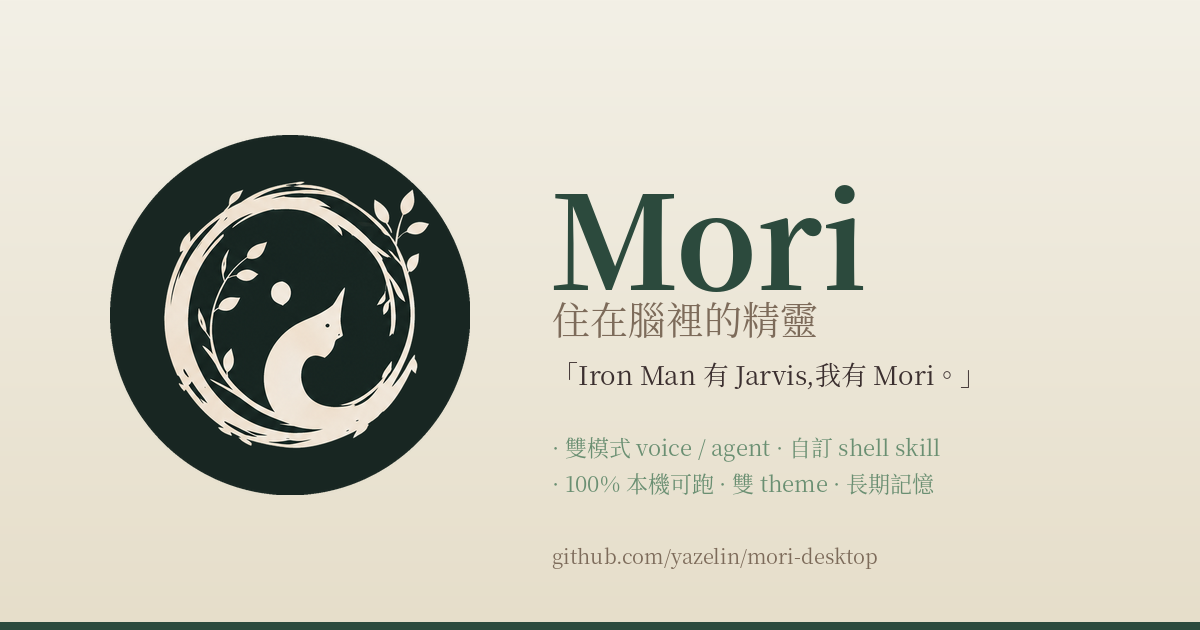
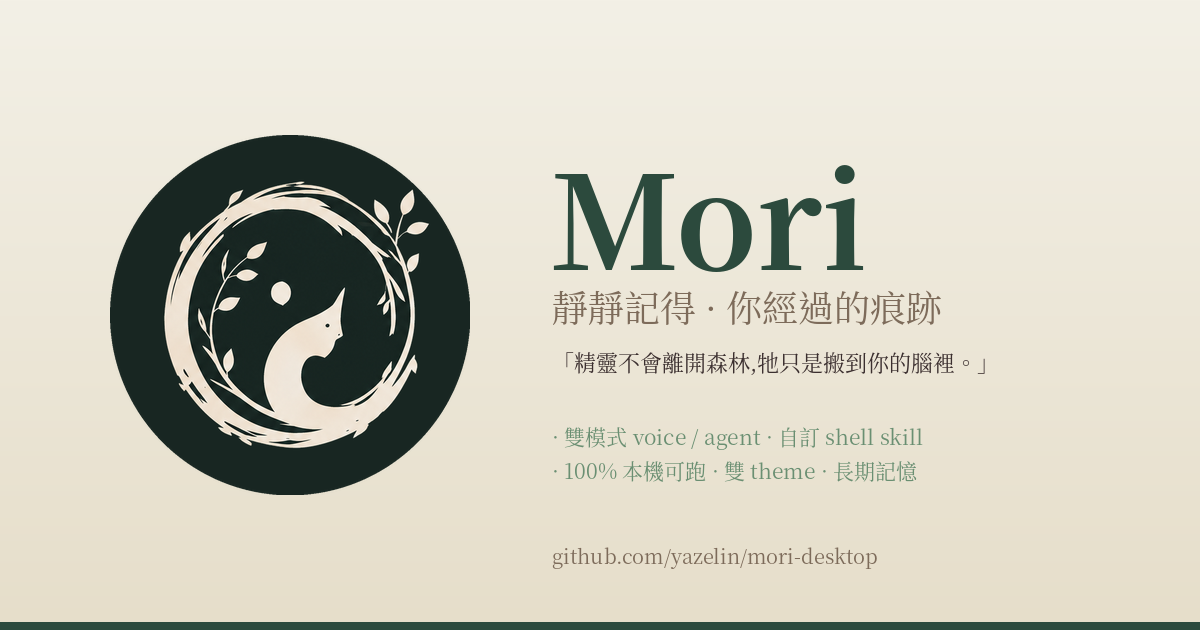
docs: tagline 改「靜靜記得 · 你經過的痕跡」
原「住在腦裡的精靈 · 桌面身體版」太工程化、不抓眼。新 tagline 直接拿 SOUL.md
原始引言後半,詩意更強且跟 Mori brand 核心(她的森林 / 你經過的痕跡)直接掛勾。

替換範圍:
- 所有 docs/*.html OG meta + twitter:title
- docs/index.html landing hero subtitle
- docs/design-book.html cover subtitle
- docs/brand.html 內文「Mori 是住在腦裡的精靈」→「Mori 是靜靜記得你經過痕跡的精靈」
- docs/og-image.png 重 render(新 tagline + SOUL.md 引言 hook)

Changed region(s): [[0.4625, 0.2413, 0.8017, 0.6333], [0.4625, 0.6635, 0.8017, 0.7841]]

diff --git a/docs/index.html b/docs/index.html
@@ -2,18 +2,18 @@
 <html lang="zh-Hant">
 <head>
 <meta charset="utf-8">
-<title>Mori — 住在腦裡的精靈</title>
+<title>Mori — 靜靜記得你經過的痕跡</title>
 <meta name="viewport" content="width=device-width,initial-scale=1">
 <link rel="icon" type="image/png" href="sprites/logo.png">
 <link rel="stylesheet" href="_book.css">
-<meta property="og:title" content="Mori — 住在腦裡的精靈">
+<meta property="og:title" content="Mori — 靜靜記得你經過的痕跡">
 <meta property="og:description" content="雙模式 voice / agent · 自訂 shell skill · 100% 本機可跑 · 雙 theme · 長期記憶。Tauri 2 + Rust + React 桌面 AI 助手。">
 <meta property="og:image" content="https://yazelin.github.io/mori-desktop/og-image.png">
 <meta property="og:url" content="https://yazelin.github.io/mori-desktop/">
 <meta property="og:type" content="website">
 <meta property="og:site_name" content="Mori">
 <meta name="twitter:card" content="summary_large_image">
-<meta name="twitter:title" content="Mori — 住在腦裡的精靈">
+<meta name="twitter:title" content="Mori — 靜靜記得你經過的痕跡">
 <meta name="twitter:description" content="雙模式 voice / agent · 自訂 shell skill · 100% 本機可跑 · 雙 theme">
 <meta name="twitter:image" content="https://yazelin.github.io/mori-desktop/og-image.png">
 <style>
@@ -324,7 +324,7 @@
   <img class="book-logo" src="sprites/logo.png" alt="Mori logo">
   <div>
     <h1>Mori</h1>
-    <div class="book-title-sub">住在腦裡的精靈 · 桌面身體版</div>
+    <div class="book-title-sub">靜靜記得 · 你經過的痕跡</div>
   </div>
   <nav class="book-nav">
     <a href="index.html" class="current">Home</a>

diff --git a/docs/design-book.html b/docs/design-book.html
@@ -6,14 +6,14 @@
 <meta name="viewport" content="width=device-width,initial-scale=1">
 <link rel="icon" type="image/png" href="sprites/logo.png">
 <link rel="stylesheet" href="_book.css">
-<meta property="og:title" content="Mori — 住在腦裡的精靈">
+<meta property="og:title" content="Mori — 靜靜記得你經過的痕跡">
 <meta property="og:description" content="雙模式 voice / agent · 自訂 shell skill · 100% 本機可跑 · 雙 theme · 長期記憶。Tauri 2 + Rust + React 桌面 AI 助手。">
 <meta property="og:image" content="https://yazelin.github.io/mori-desktop/og-image.png">
 <meta property="og:url" content="https://yazelin.github.io/mori-desktop/">
 <meta property="og:type" content="website">
 <meta property="og:site_name" content="Mori">
 <meta name="twitter:card" content="summary_large_image">
-<meta name="twitter:title" content="Mori — 住在腦裡的精靈">
+<meta name="twitter:title" content="Mori — 靜靜記得你經過的痕跡">
 <meta name="twitter:description" content="雙模式 voice / agent · 自訂 shell skill · 100% 本機可跑 · 雙 theme">
 <meta name="twitter:image" content="https://yazelin.github.io/mori-desktop/og-image.png">
 <style>
@@ -124,7 +124,7 @@
 <section class="cover">
   <img src="sprites/logo.png" alt="Mori logo">
   <h1>Mori</h1>
-  <div class="sub">精靈的私密記憶 · 桌面身體版</div>
+  <div class="sub">靜靜記得 · 你經過的痕跡</div>
   <blockquote>
     「精靈不會離開森林,牠只是搬到你的腦裡。<br>
     靜靜記得,牠的森林,有你經過的痕跡。」<br>

diff --git a/docs/brand.html b/docs/brand.html
@@ -6,14 +6,14 @@
 <meta name="viewport" content="width=device-width,initial-scale=1">
 <link rel="icon" type="image/png" href="sprites/logo.png">
 <link rel="stylesheet" href="_book.css">
-<meta property="og:title" content="Mori — 住在腦裡的精靈">
+<meta property="og:title" content="Mori — 靜靜記得你經過的痕跡">
 <meta property="og:description" content="雙模式 voice / agent · 自訂 shell skill · 100% 本機可跑 · 雙 theme · 長期記憶。Tauri 2 + Rust + React 桌面 AI 助手。">
 <meta property="og:image" content="https://yazelin.github.io/mori-desktop/og-image.png">
 <meta property="og:url" content="https://yazelin.github.io/mori-desktop/">
 <meta property="og:type" content="website">
 <meta property="og:site_name" content="Mori">
 <meta name="twitter:card" content="summary_large_image">
-<meta name="twitter:title" content="Mori — 住在腦裡的精靈">
+<meta name="twitter:title" content="Mori — 靜靜記得你經過的痕跡">
 <meta name="twitter:description" content="雙模式 voice / agent · 自訂 shell skill · 100% 本機可跑 · 雙 theme">
 <meta name="twitter:image" content="https://yazelin.github.io/mori-desktop/og-image.png">
 </head>
@@ -50,7 +50,7 @@
 
 <h2>Brand Concept</h2>
 <p>
-  <strong>Mori</strong> 是住在腦裡的精靈,陪伴記憶與意識共生長。
+  <strong>Mori</strong> 是靜靜記得你經過痕跡的精靈,陪伴記憶與意識共生長。
   每一段記憶都是她的一部分,持續累積、反思、學習與分享。
 </p>
 

diff --git a/docs/character.html b/docs/character.html
@@ -6,14 +6,14 @@
 <meta name="viewport" content="width=device-width,initial-scale=1">
 <link rel="icon" type="image/png" href="sprites/logo.png">
 <link rel="stylesheet" href="_book.css">
-<meta property="og:title" content="Mori — 住在腦裡的精靈">
+<meta property="og:title" content="Mori — 靜靜記得你經過的痕跡">
 <meta property="og:description" content="雙模式 voice / agent · 自訂 shell skill · 100% 本機可跑 · 雙 theme · 長期記憶。Tauri 2 + Rust + React 桌面 AI 助手。">
 <meta property="og:image" content="https://yazelin.github.io/mori-desktop/og-image.png">
 <meta property="og:url" content="https://yazelin.github.io/mori-desktop/">
 <meta property="og:type" content="website">
 <meta property="og:site_name" content="Mori">
 <meta name="twitter:card" content="summary_large_image">
-<meta name="twitter:title" content="Mori — 住在腦裡的精靈">
+<meta name="twitter:title" content="Mori — 靜靜記得你經過的痕跡">
 <meta name="twitter:description" content="雙模式 voice / agent · 自訂 shell skill · 100% 本機可跑 · 雙 theme">
 <meta name="twitter:image" content="https://yazelin.github.io/mori-desktop/og-image.png">
 </head>

diff --git a/docs/desktop-ui.html b/docs/desktop-ui.html
@@ -6,14 +6,14 @@
 <meta name="viewport" content="width=device-width,initial-scale=1">
 <link rel="icon" type="image/png" href="sprites/logo.png">
 <link rel="stylesheet" href="_book.css">
-<meta property="og:title" content="Mori — 住在腦裡的精靈">
+<meta property="og:title" content="Mori — 靜靜記得你經過的痕跡">
 <meta property="og:description" content="雙模式 voice / agent · 自訂 shell skill · 100% 本機可跑 · 雙 theme · 長期記憶。Tauri 2 + Rust + React 桌面 AI 助手。">
 <meta property="og:image" content="https://yazelin.github.io/mori-desktop/og-image.png">
 <meta property="og:url" content="https://yazelin.github.io/mori-desktop/">
 <meta property="og:type" content="website">
 <meta property="og:site_name" content="Mori">
 <meta name="twitter:card" content="summary_large_image">
-<meta name="twitter:title" content="Mori — 住在腦裡的精靈">
+<meta name="twitter:title" content="Mori — 靜靜記得你經過的痕跡">
 <meta name="twitter:description" content="雙模式 voice / agent · 自訂 shell skill · 100% 本機可跑 · 雙 theme">
 <meta name="twitter:image" content="https://yazelin.github.io/mori-desktop/og-image.png">
 </head>

diff --git a/docs/getting-started.html b/docs/getting-started.html
@@ -6,14 +6,14 @@
 <meta name="viewport" content="width=device-width,initial-scale=1">
 <link rel="icon" type="image/png" href="sprites/logo.png">
 <link rel="stylesheet" href="_book.css">
-<meta property="og:title" content="Mori — 住在腦裡的精靈">
+<meta property="og:title" content="Mori — 靜靜記得你經過的痕跡">
 <meta property="og:description" content="雙模式 voice / agent · 自訂 shell skill · 100% 本機可跑 · 雙 theme · 長期記憶。Tauri 2 + Rust + React 桌面 AI 助手。">
 <meta property="og:image" content="https://yazelin.github.io/mori-desktop/og-image.png">
 <meta property="og:url" content="https://yazelin.github.io/mori-desktop/">
 <meta property="og:type" content="website">
 <meta property="og:site_name" content="Mori">
 <meta name="twitter:card" content="summary_large_image">
-<meta name="twitter:title" content="Mori — 住在腦裡的精靈">
+<meta name="twitter:title" content="Mori — 靜靜記得你經過的痕跡">
 <meta name="twitter:description" content="雙模式 voice / agent · 自訂 shell skill · 100% 本機可跑 · 雙 theme">
 <meta name="twitter:image" content="https://yazelin.github.io/mori-desktop/og-image.png">
 <style>

diff --git a/docs/hotkeys.html b/docs/hotkeys.html
@@ -6,14 +6,14 @@
 <meta name="viewport" content="width=device-width,initial-scale=1">
 <link rel="icon" type="image/png" href="sprites/logo.png">
 <link rel="stylesheet" href="_book.css">
-<meta property="og:title" content="Mori — 住在腦裡的精靈">
+<meta property="og:title" content="Mori — 靜靜記得你經過的痕跡">
 <meta property="og:description" content="雙模式 voice / agent · 自訂 shell skill · 100% 本機可跑 · 雙 theme · 長期記憶。Tauri 2 + Rust + React 桌面 AI 助手。">
 <meta property="og:image" content="https://yazelin.github.io/mori-desktop/og-image.png">
 <meta property="og:url" content="https://yazelin.github.io/mori-desktop/">
 <meta property="og:type" content="website">
 <meta property="og:site_name" content="Mori">
 <meta name="twitter:card" content="summary_large_image">
-<meta name="twitter:title" content="Mori — 住在腦裡的精靈">
+<meta name="twitter:title" content="Mori — 靜靜記得你經過的痕跡">
 <meta name="twitter:description" content="雙模式 voice / agent · 自訂 shell skill · 100% 本機可跑 · 雙 theme">
 <meta name="twitter:image" content="https://yazelin.github.io/mori-desktop/og-image.png">
 <style>

diff --git a/docs/mori-home.html b/docs/mori-home.html
@@ -6,14 +6,14 @@
 <meta name="viewport" content="width=device-width,initial-scale=1">
 <link rel="icon" type="image/png" href="sprites/logo.png">
 <link rel="stylesheet" href="_book.css">
-<meta property="og:title" content="Mori — 住在腦裡的精靈">
+<meta property="og:title" content="Mori — 靜靜記得你經過的痕跡">
 <meta property="og:description" content="雙模式 voice / agent · 自訂 shell skill · 100% 本機可跑 · 雙 theme · 長期記憶。Tauri 2 + Rust + React 桌面 AI 助手。">
 <meta property="og:image" content="https://yazelin.github.io/mori-desktop/og-image.png">
 <meta property="og:url" content="https://yazelin.github.io/mori-desktop/">
 <meta property="og:type" content="website">
 <meta property="og:site_name" content="Mori">
 <meta name="twitter:card" content="summary_large_image">
-<meta name="twitter:title" content="Mori — 住在腦裡的精靈">
+<meta name="twitter:title" content="Mori — 靜靜記得你經過的痕跡">
 <meta name="twitter:description" content="雙模式 voice / agent · 自訂 shell skill · 100% 本機可跑 · 雙 theme">
 <meta name="twitter:image" content="https://yazelin.github.io/mori-desktop/og-image.png">
 <style>

diff --git a/docs/providers.html b/docs/providers.html
@@ -6,14 +6,14 @@
 <meta name="viewport" content="width=device-width,initial-scale=1">
 <link rel="icon" type="image/png" href="sprites/logo.png">
 <link rel="stylesheet" href="_book.css">
-<meta property="og:title" content="Mori — 住在腦裡的精靈">
+<meta property="og:title" content="Mori — 靜靜記得你經過的痕跡">
 <meta property="og:description" content="雙模式 voice / agent · 自訂 shell skill · 100% 本機可跑 · 雙 theme · 長期記憶。Tauri 2 + Rust + React 桌面 AI 助手。">
 <meta property="og:image" content="https://yazelin.github.io/mori-desktop/og-image.png">
 <meta property="og:url" content="https://yazelin.github.io/mori-desktop/">
 <meta property="og:type" content="website">
 <meta property="og:site_name" content="Mori">
 <meta name="twitter:card" content="summary_large_image">
-<meta name="twitter:title" content="Mori — 住在腦裡的精靈">
+<meta name="twitter:title" content="Mori — 靜靜記得你經過的痕跡">
 <meta name="twitter:description" content="雙模式 voice / agent · 自訂 shell skill · 100% 本機可跑 · 雙 theme">
 <meta name="twitter:image" content="https://yazelin.github.io/mori-desktop/og-image.png">
 </head>

diff --git a/docs/tray.html b/docs/tray.html
@@ -6,14 +6,14 @@
 <meta name="viewport" content="width=device-width,initial-scale=1">
 <link rel="icon" type="image/png" href="sprites/logo.png">
 <link rel="stylesheet" href="_book.css">
-<meta property="og:title" content="Mori — 住在腦裡的精靈">
+<meta property="og:title" content="Mori — 靜靜記得你經過的痕跡">
 <meta property="og:description" content="雙模式 voice / agent · 自訂 shell skill · 100% 本機可跑 · 雙 theme · 長期記憶。Tauri 2 + Rust + React 桌面 AI 助手。">
 <meta property="og:image" content="https://yazelin.github.io/mori-desktop/og-image.png">
 <meta property="og:url" content="https://yazelin.github.io/mori-desktop/">
 <meta property="og:type" content="website">
 <meta property="og:site_name" content="Mori">
 <meta name="twitter:card" content="summary_large_image">
-<meta name="twitter:title" content="Mori — 住在腦裡的精靈">
+<meta name="twitter:title" content="Mori — 靜靜記得你經過的痕跡">
 <meta name="twitter:description" content="雙模式 voice / agent · 自訂 shell skill · 100% 本機可跑 · 雙 theme">
 <meta name="twitter:image" content="https://yazelin.github.io/mori-desktop/og-image.png">
 </head>

diff --git a/docs/troubleshooting.html b/docs/troubleshooting.html
@@ -6,14 +6,14 @@
 <meta name="viewport" content="width=device-width,initial-scale=1">
 <link rel="icon" type="image/png" href="sprites/logo.png">
 <link rel="stylesheet" href="_book.css">
-<meta property="og:title" content="Mori — 住在腦裡的精靈">
+<meta property="og:title" content="Mori — 靜靜記得你經過的痕跡">
 <meta property="og:description" content="雙模式 voice / agent · 自訂 shell skill · 100% 本機可跑 · 雙 theme · 長期記憶。Tauri 2 + Rust + React 桌面 AI 助手。">
 <meta property="og:image" content="https://yazelin.github.io/mori-desktop/og-image.png">
 <meta property="og:url" content="https://yazelin.github.io/mori-desktop/">
 <meta property="og:type" content="website">
 <meta property="og:site_name" content="Mori">
 <meta name="twitter:card" content="summary_large_image">
-<meta name="twitter:title" content="Mori — 住在腦裡的精靈">
+<meta name="twitter:title" content="Mori — 靜靜記得你經過的痕跡">
 <meta name="twitter:description" content="雙模式 voice / agent · 自訂 shell skill · 100% 本機可跑 · 雙 theme">
 <meta name="twitter:image" content="https://yazelin.github.io/mori-desktop/og-image.png">
 </head>
